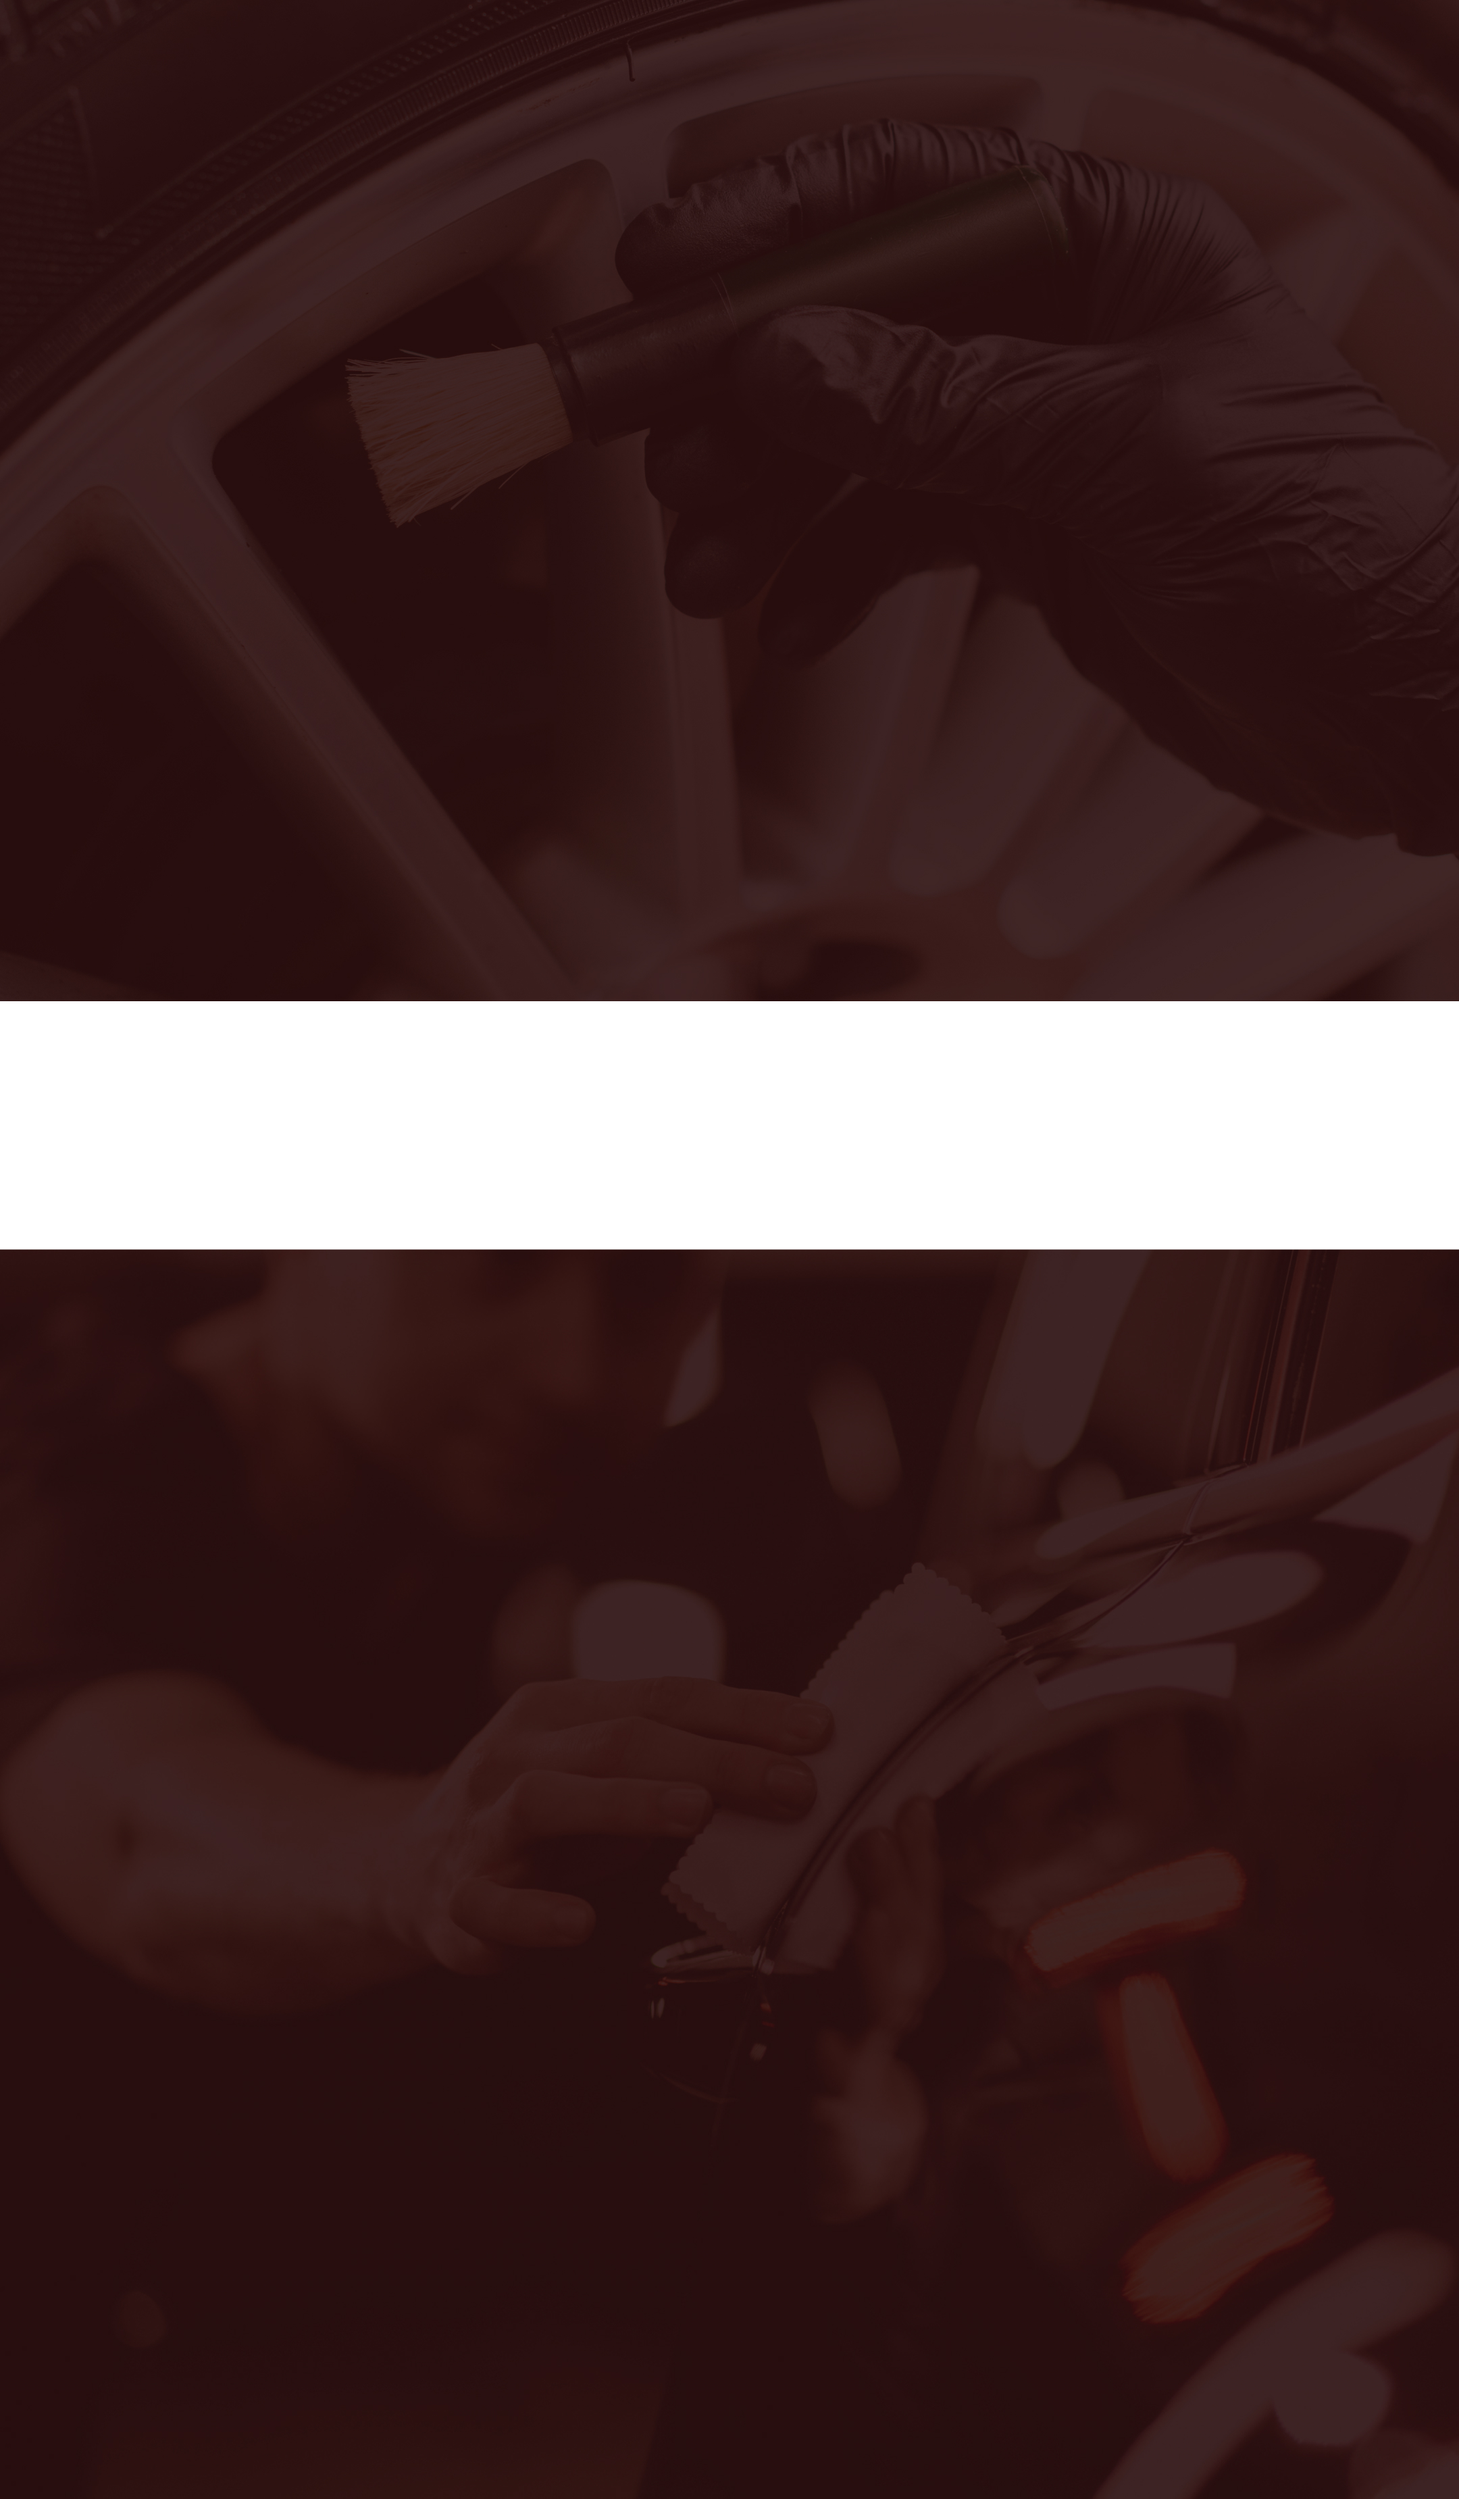
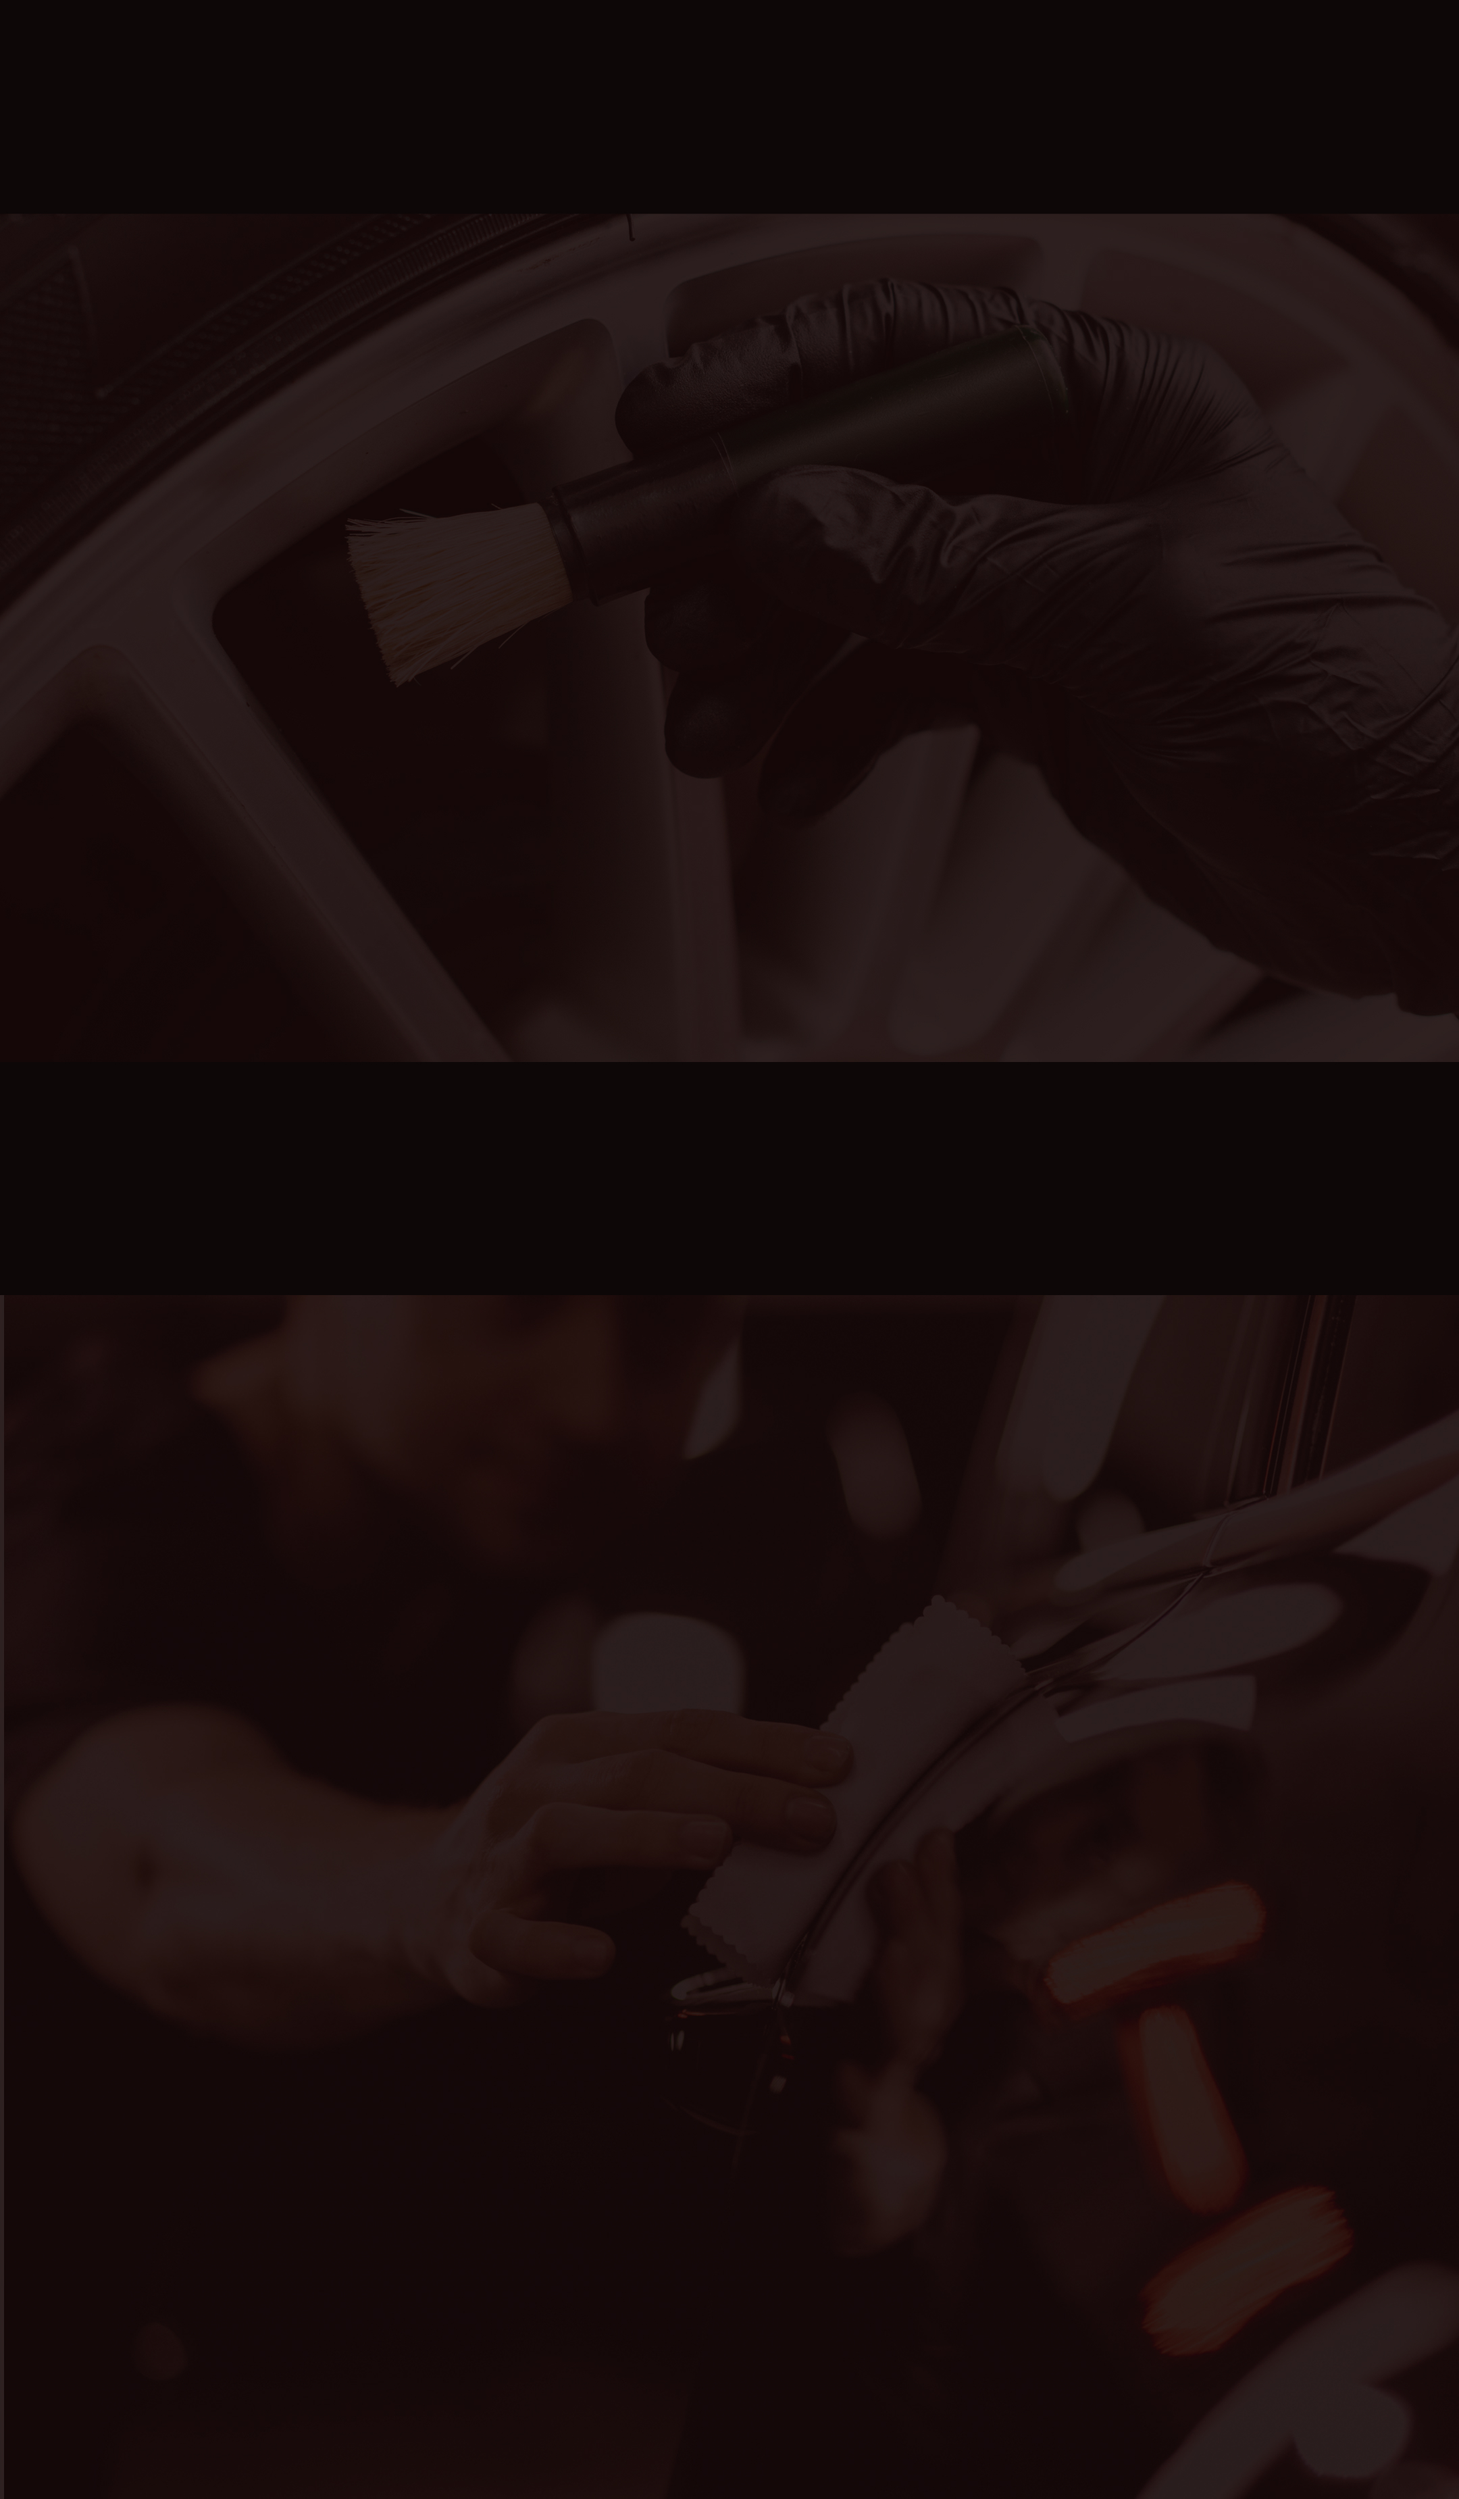
bg image gallery

diff --git a/gallery4.html b/gallery4.html
@@ -47,9 +47,11 @@
         <div class="modal-inner-gallery"> <button id="modal-close">close</button>
         </div>
     </div>
+    <img src="static/images/gallery-hero.jpeg" alt="" id="hero-image">
+    <div id="hero-filter"></div>
     <div class="mask-container">
-        <img src="static/images/gallery-hero.jpeg" alt="" id="hero-image">
-        <div id="hero-filter"></div>
+
+
         <section class="hero container flex flex-column">
             <div>
                 <h1 class="hero-text-lg">
@@ -62,39 +64,41 @@
             </div>
         </section>
         <div class="gallery-bg">
-        <section class="container">
-            <ul class="image-grid">
-                <li data-image="img-73" class="gallery-image modal-card"><img src="static/images/low_res/img-73.jpg"
-                        alt="">
-                </li>
-                <li data-image="img-74" class="gallery-image modal-card"><img src="static/images/low_res/img-74.jpg"
-                        alt="">
-                </li>
-                <li data-image="img-75" class="gallery-image modal-card"><img src="static/images/low_res/img-75.jpg"
-                        alt="">
-                </li>
-                <li data-image="img-76" class="gallery-image modal-card"><img src="static/images/low_res/img-76.jpg"
-                        alt="">
-                </li>
-                <li data-image="img-77" class="gallery-image modal-card"><img src="static/images/low_res/img-77.jpg"
-                        alt="">
-                </li>
-                <li data-image="img-78" class="gallery-image modal-card"><img src="static/images/low_res/img-78.jpg"
-                        alt="">
-                </li>
-            
-            </ul>
+            <section class="container">
+                <ul class="image-grid">
+                    <li data-image="img-73" class="gallery-image modal-card"><img src="static/images/low_res/img-73.jpg"
+                            alt="">
+                    </li>
+                    <li data-image="img-74" class="gallery-image modal-card"><img src="static/images/low_res/img-74.jpg"
+                            alt="">
+                    </li>
+                    <li data-image="img-75" class="gallery-image modal-card"><img src="static/images/low_res/img-75.jpg"
+                            alt="">
+                    </li>
+                    <li data-image="img-76" class="gallery-image modal-card"><img src="static/images/low_res/img-76.jpg"
+                            alt="">
+                    </li>
+                    <li data-image="img-77" class="gallery-image modal-card"><img src="static/images/low_res/img-77.jpg"
+                            alt="">
+                    </li>
+                    <li data-image="img-78" class="gallery-image modal-card"><img src="static/images/low_res/img-78.jpg"
+                            alt="">
+                    </li>
 
-            <div class="gallery-page-selector">
-                <a class="gallery-selector-chev" href="gallery3.html"><img src="static/images/chevron-left.svg" alt=""></a>
-                <a href="gallery.html">1</a>
-                <a href="gallery1.html">2</a>
-                <a href="gallery2.html">3</a>
-                <a href="gallery3.html">4</a>
-                <a class="gallery-current-page" href="gallery4.html">5</a>
-                <a class="gallery-selector-chev" href="gallery4.html"><img src="static/images/chevron-right.svg" alt=""></a>
-            </div>
-        </section>
+                </ul>
+
+                <div class="gallery-page-selector">
+                    <a class="gallery-selector-chev" href="gallery3.html"><img src="static/images/chevron-left.svg"
+                            alt=""></a>
+                    <a href="gallery.html">1</a>
+                    <a href="gallery1.html">2</a>
+                    <a href="gallery2.html">3</a>
+                    <a href="gallery3.html">4</a>
+                    <a class="gallery-current-page" href="gallery4.html">5</a>
+                    <a class="gallery-selector-chev" href="gallery4.html"><img src="static/images/chevron-right.svg"
+                            alt=""></a>
+                </div>
+            </section>
         </div>
         <footer class="index-contact">
             <div class="container">

diff --git a/gallery1.html b/gallery1.html
@@ -46,10 +46,11 @@
 
         <div class="modal-inner-gallery"> <button id="modal-close">close</button>
         </div>
-    </div>
+    </div> 
+    <img src="static/images/gallery-hero.jpeg" alt="" id="hero-image">
+    <div id="hero-filter"></div>
     <div class="mask-container">
-        <img src="static/images/gallery-hero.jpeg" alt="" id="hero-image">
-        <div id="hero-filter"></div>
+
         <section class="hero container flex flex-column">
             <div>
                 <h1 class="hero-text-lg">

diff --git a/gallery3.html b/gallery3.html
@@ -47,9 +47,11 @@
         <div class="modal-inner-gallery"> <button id="modal-close">close</button>
         </div>
     </div>
+    <img src="static/images/gallery-hero.jpeg" alt="" id="hero-image">
+    <div id="hero-filter"></div>
     <div class="mask-container">
-        <img src="static/images/gallery-hero.jpeg" alt="" id="hero-image">
-        <div id="hero-filter"></div>
+
+
         <section class="hero container flex flex-column">
             <div>
                 <h1 class="hero-text-lg">

diff --git a/gallery.html b/gallery.html
@@ -47,9 +47,10 @@
         <div class="modal-inner-gallery"> <button id="modal-close">close</button>
         </div>
     </div>
+    <img src="static/images/gallery-hero.jpeg" alt="" id="hero-image">
+    <div id="hero-filter"></div>
     <div class="mask-container">
-        <img src="static/images/gallery-hero.jpeg" alt="" id="hero-image">
-        <div id="hero-filter"></div>
+
         <section class="hero container flex flex-column">
             <div>
                 <h1 class="hero-text-lg">

diff --git a/gallery2.html b/gallery2.html
@@ -47,9 +47,10 @@
         <div class="modal-inner-gallery"> <button id="modal-close">close</button>
         </div>
     </div>
+    <img src="static/images/gallery-hero.jpeg" alt="" id="hero-image">
+    <div id="hero-filter"></div>
     <div class="mask-container">
-        <img src="static/images/gallery-hero.jpeg" alt="" id="hero-image">
-        <div id="hero-filter"></div>
+
         <section class="hero container flex flex-column">
             <div>
                 <h1 class="hero-text-lg">

diff --git a/static/style.css b/static/style.css
@@ -392,6 +392,8 @@ nav a {
 
 .gallery-bg {
     background: url(/static/images/gallery-bg.jpg);
+    background-repeat: no-repeat;
+    background-size: cover;
 }
 
 .carousel-container {
